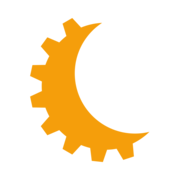
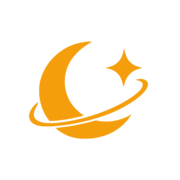
feat(brand): replace logomark with new moon mark
Swap the gear-moon mark for the new crescent, sparkle, and orbit mark
(traced to clean vector, brand amber #F59E0B). Update the inline Logo
component and regenerate every asset: SVG mark, favicons (ico rebuilt
with 8-bit alpha), apple-touch icon, PWA manifest icons, logo.png (also
feeds dynamic OG rendering), and the static OG card.

Changed region(s): [[0.1389, 0.0833, 0.8333, 0.9167], [0.5833, 0.2778, 0.8056, 0.5]]

diff --git a/src/components/core/Logo.tsx b/src/components/core/Logo.tsx
@@ -1,49 +1,32 @@
-import { useId } from "react";
-
 import { cn } from "@/lib/utils";
 
 import type { ComponentProps } from "react";
 
 /**
- * Runa gear-moon logomark.
+ * Runa moon logomark (crescent, sparkle, and orbit).
  *
  * Portable inline SVG (no raster or font dependency) that inherits the current
  * text color via `fill="currentColor"`, so callers theme it with text-color
- * utilities (e.g. `text-primary-500` for brand amber). The mask id is unique
- * per instance so several marks can render on the same page without colliding.
+ * utilities (e.g. `text-primary-500` for brand amber). Paths are traced from the
+ * brand mark; the `translate/scale` group maps potrace's bottom-left origin.
  */
-const Logo = ({ className, ...props }: ComponentProps<"svg">) => {
-  const maskId = useId();
-
-  return (
-    <svg
-      xmlns="http://www.w3.org/2000/svg"
-      viewBox="0 0 512 512"
-      fill="currentColor"
-      role="img"
-      aria-label="Runa"
-      className={cn("size-5", className)}
-      {...props}
-    >
-      <defs>
-        <mask id={maskId}>
-          <rect width="512" height="512" fill="white" />
-          <circle cx="348" cy="216" r="186" fill="black" />
-        </mask>
-      </defs>
-      <g mask={`url(#${maskId})`}>
-        <circle cx="256" cy="256" r="196" />
-      </g>
-      <path d="M 340.94 432.64 L 344.51 472.62 L 311.72 483.27 L 291.11 448.83 Z" />
-      <path d="M 261.75 451.92 L 248.75 489.89 L 214.47 486.28 L 209.65 446.44 Z" />
-      <path d="M 181.56 437.32 L 154.24 466.72 L 124.39 449.48 L 136.19 411.12 Z" />
-      <path d="M 114.25 391.36 L 77.34 407.11 L 57.07 379.22 L 83.46 348.98 Z" />
-      <path d="M 71.45 322.01 L 31.32 321.38 L 24.15 287.66 L 60.56 270.76 Z" />
-      <path d="M 60.56 241.24 L 24.15 224.34 L 31.32 190.62 L 71.45 189.99 Z" />
-      <path d="M 83.46 163.02 L 57.07 132.78 L 77.34 104.89 L 114.25 120.64 Z" />
-      <path d="M 136.19 100.88 L 124.39 62.52 L 154.24 45.28 L 181.56 74.68 Z" />
-    </svg>
-  );
-};
+const Logo = ({ className, ...props }: ComponentProps<"svg">) => (
+  <svg
+    xmlns="http://www.w3.org/2000/svg"
+    viewBox="0 0 1254 1254"
+    fill="currentColor"
+    role="img"
+    aria-label="Runa"
+    className={cn("size-5", className)}
+    {...props}
+  >
+    <g transform="translate(0,1254) scale(0.1,-0.1)" stroke="none">
+      <path d="M6160 9643 c-288 -14 -726 -100 -1011 -199 -723 -251 -1386 -755 -1832 -1396 -233 -334 -438 -794 -521 -1168 -56 -254 -70 -385 -70 -665 0 -270 8 -361 49 -600 61 -346 140 -592 294 -911 97 -201 199 -364 328 -526 l54 -68 117 0 c236 0 772 59 1137 125 77 14 178 32 224 40 251 46 874 194 893 213 5 5 -36 41 -94 82 -458 327 -776 704 -979 1161 -280 632 -313 1364 -90 2011 147 424 372 778 716 1123 266 268 622 535 978 734 31 18 55 37 52 42 -6 8 -95 9 -245 2z" />
+      <path d="M8637 9133 c-3 -5 -17 -69 -31 -143 -121 -622 -461 -979 -1084 -1136 -74 -18 -137 -36 -141 -39 -9 -10 21 -24 64 -30 101 -16 298 -80 412 -135 154 -74 228 -124 329 -225 175 -173 284 -396 384 -787 18 -71 37 -128 41 -128 13 0 19 16 49 140 80 324 214 569 423 766 189 179 383 277 707 359 58 15 109 30 113 34 4 4 -56 25 -135 45 -326 86 -505 176 -677 341 -205 197 -313 409 -396 779 -32 140 -46 179 -58 159z" />
+      <path d="M9650 7035 c-148 -28 -195 -59 -120 -78 210 -54 327 -113 378 -190 24 -37 27 -50 27 -132 0 -87 -2 -95 -42 -176 -81 -162 -240 -329 -518 -542 -564 -432 -1389 -862 -2320 -1207 -809 -300 -1496 -483 -2385 -634 -677 -115 -1266 -144 -1640 -81 -199 34 -337 86 -454 169 -85 61 -132 115 -174 204 -32 68 -36 84 -40 181 -6 167 20 251 168 546 91 181 120 249 120 278 0 26 -4 37 -15 37 -24 0 -188 -143 -272 -238 -322 -365 -420 -733 -267 -1009 69 -124 189 -229 346 -303 130 -61 295 -98 541 -121 146 -13 680 -7 837 10 52 6 172 18 265 26 1058 100 2358 399 3340 768 698 262 1212 521 1790 899 307 201 511 364 722 576 343 344 451 629 315 830 -32 49 -117 116 -180 143 -115 50 -294 68 -422 44z" />
+      <path d="M9080 4535 c-231 -151 -607 -300 -944 -375 -298 -66 -469 -85 -771 -84 -250 0 -362 11 -585 56 l-105 22 -130 -37 c-536 -151 -1164 -284 -1840 -391 -134 -21 -477 -63 -757 -92 -40 -4 -58 -10 -58 -20 0 -21 178 -165 330 -266 155 -103 422 -238 590 -298 210 -75 457 -131 710 -162 140 -17 647 -17 805 0 843 92 1504 350 2069 806 137 110 347 316 459 449 122 146 310 420 295 431 -2 2 -32 -16 -68 -39z" />
+    </g>
+  </svg>
+);
 
 export default Logo;
